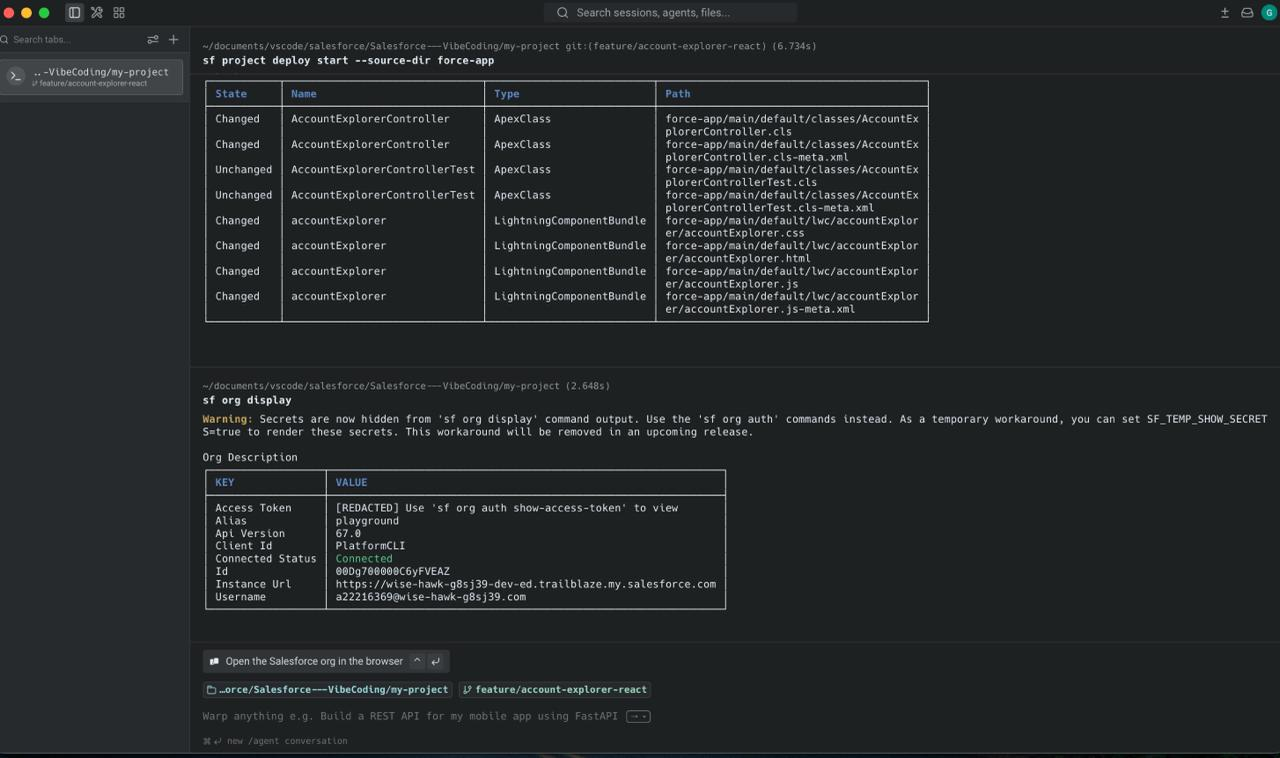
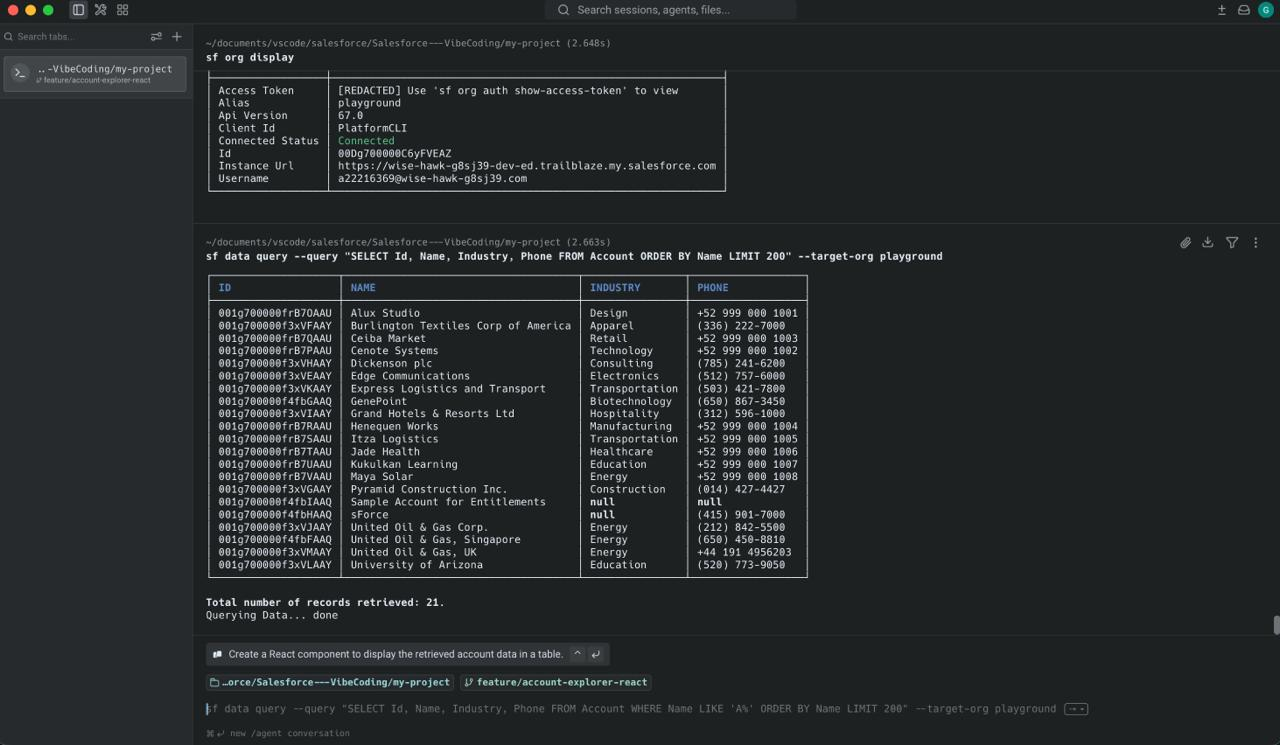
feat: add .gitignore and AI work log; update README to reference work log

diff --git a/README.md b/README.md
@@ -46,13 +46,4 @@ Screenshots documenting the build and both running apps live in the [`img/`](img
 
 Both apps were built with **Claude Code** (Anthropic's CLI coding agent). The LWC/Apex version was scaffolded and iterated interactively; the React version was ported from a written, reviewed plan ([docs/superpowers/plans/2026-08-23-account-explorer-react.md](docs/superpowers/plans/2026-08-23-account-explorer-react.md)). Work was verified by running the actual tests and deploying to a live org — not assumed.
 
-### Short AI work log
-
-| Tool | Important prompt | Problem | Verification / correction |
-|------|------------------|---------|---------------------------|
-| Claude Code | "Create a Salesforce LWC `accountExplorer` plus its Apex controller…" | Initial scaffold — controller, LWC, meta files. | Wrote and ran Jest (10/10) and Apex tests (4/4 on a live org). |
-| Claude Code (review subagent) | "/requesting-code-review" | Reviewer flagged the SOQL enforced record sharing but not field-level security. | Added `WITH USER_MODE` to the query; re-reviewed. |
-| Claude Code | "improve the UI, add CSS styles" → "table shouldn't overflow" → "add an expand button" | `slds-gutters` negative margins bled the filter-bar background past the card; a follow-up `overflow-x:hidden` then clipped the combobox dropdown. | Split a padded outer div from the negative-margin inner grid; removed the `overflow-x` clip once the structural fix held. |
-| Claude Code | "add clean code principles… error handling" | Wrapping the query in try/catch left the catch block uncovered → deploy failed at 50% Apex coverage. | Added a test that runs as a minimum-access user to exercise the catch, restoring coverage; also caught a `bulk` reserved-keyword compile error earlier. |
-| Claude Code | "clean comments that don't add context" | Comments restated the code instead of explaining intent. | Removed section-label/how-comments; kept only business-logic rationale. |
-| Claude Code | "port to React" (from the written plan) | Replicate the LWC's exact filter/sort/state behavior without an org. | Ported the filter/sort logic test-first (`node:test`), then verified search/filter/sort/expand in-browser. |
+See **[AI_WORK_LOG.md](AI_WORK_LOG.md)** for the prompt-by-prompt log: each important prompt, a problem it caused, and how I checked or fixed it.

diff --git a/AI_WORK_LOG.md b/AI_WORK_LOG.md
@@ -1,0 +1,15 @@
+# AI Work Log
+
+**Tool:** [Claude Code](https://claude.com/claude-code) (Anthropic's CLI coding agent) was used to build both apps — the LWC/Apex version interactively, the React port from a written, reviewed plan.
+
+Each entry below is one important prompt, a problem it caused, and how I checked or fixed it. No full transcripts.
+
+| Important prompt | Problem it caused | How I checked / fixed it |
+|------------------|-------------------|--------------------------|
+| "Create a Salesforce LWC `accountExplorer` plus its Apex controller…" | First draft had no field-level security — the SOQL enforced record sharing (`with sharing`) but any user could still read `Industry`/`Phone`. | A code review flagged it; added `WITH USER_MODE` to the query and re-reviewed. |
+| "improve the UI, add CSS styles" → "table shouldn't overflow" → "add an expand button" | The `slds-gutters` negative margins bled the filter-bar background past the card; a follow-up `overflow-x:hidden` then clipped the industry dropdown. | Split a padded outer div from the negative-margin inner grid, and removed the `overflow-x` clip once the structural fix held. Verified in the browser. |
+| "add clean code principles… error handling" | Wrapping the query in `try/catch` left the catch block untested → the deploy failed at 50% Apex coverage (75% required). | Added a test that runs as a minimum-access user to exercise the catch block; re-deployed to a live org — 4/4 tests passing, coverage restored. |
+| "add tests for the component and class" | An Apex test variable named `bulk` wouldn't compile — `bulk` is a reserved keyword. | The deploy error pointed at it; renamed to `extraAccounts` and re-ran. Jest: 10/10, Apex: 4/4. |
+| "port to React" (from the written plan) | Needed to replicate the LWC's exact filter/sort/state behavior without a Salesforce org. | Ported the filter/sort logic test-first (`node:test`), reading from a static `Account_Sample_Data.json`; verified search/filter/sort in the browser. |
+
+All results were verified by actually running the tests (`npm run test:unit`, `sf apex run test`, `node --test`) and deploying to a live org not assumed.
